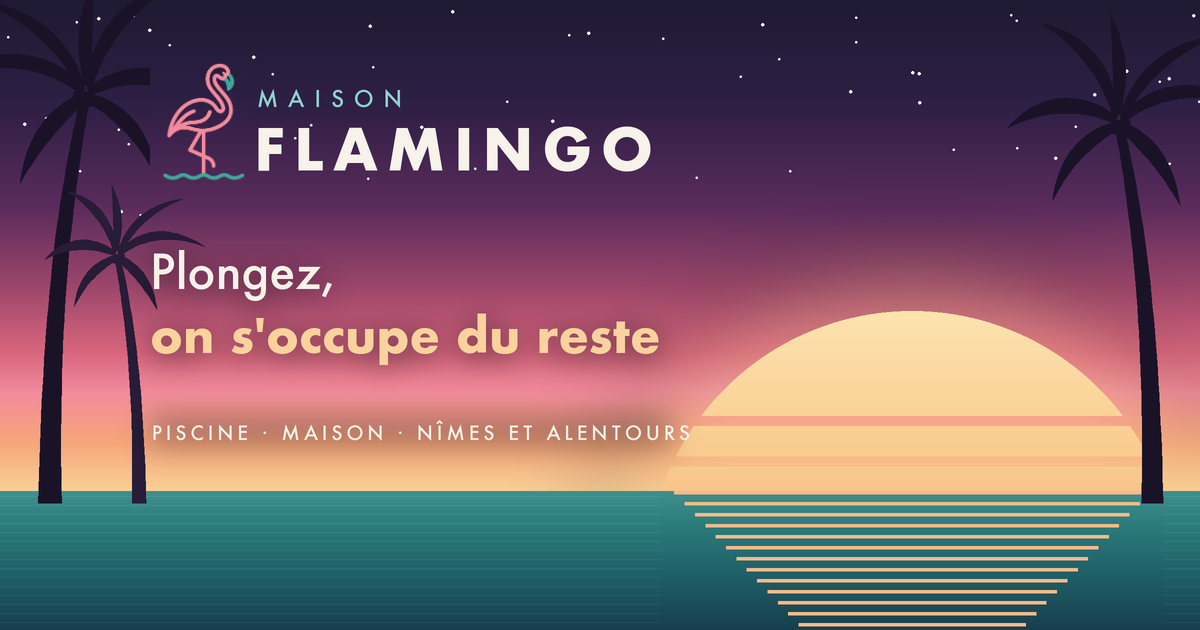
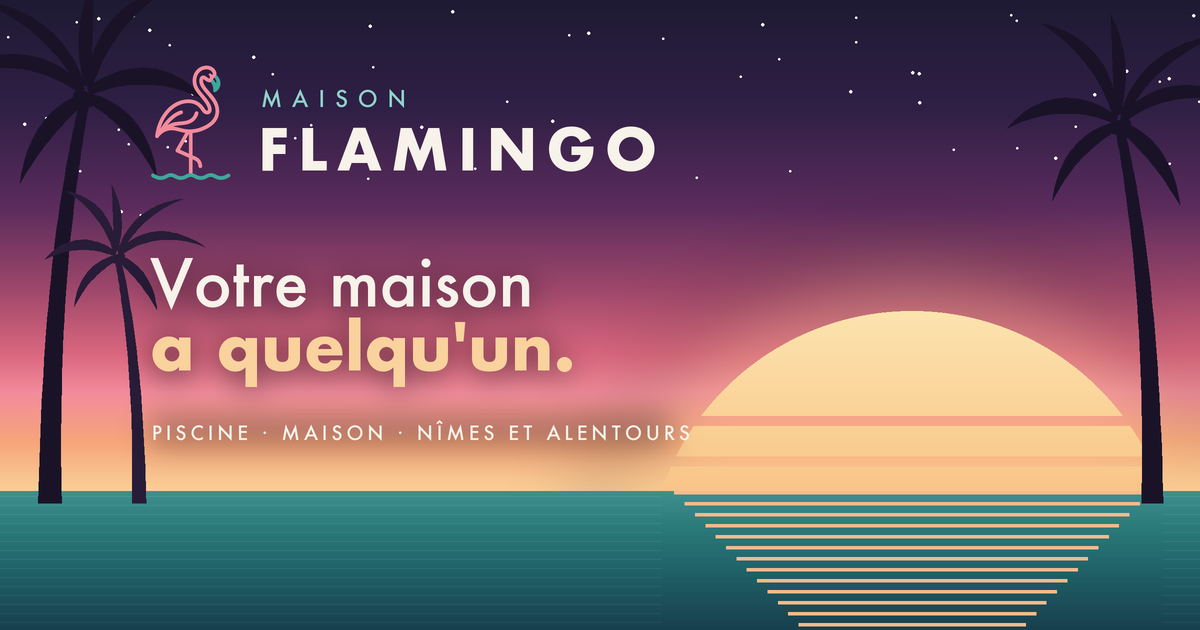
Signature Votre maison a quelqu'un, phrase de campagne Il fait toujours beau chez vous, image de partage refaite

Changed region(s): [[0.1233, 0.3921, 0.555, 0.6333], [0.1233, 0.0905, 0.3392, 0.3016], [0.2158, 0.181, 0.555, 0.2714]]

diff --git a/index.html b/index.html
@@ -3,19 +3,19 @@
 <head>
 <meta charset="utf-8">
 <meta name="viewport" content="width=device-width, initial-scale=1">
-<title>Maison Flamingo · Plongez, on s'occupe du reste</title>
+<title>Maison Flamingo · Votre maison a quelqu'un</title>
 <meta name="description" content="Entretien de piscine chaque semaine et veille de maison fermée, autour de Nîmes. Le même technicien, le même jour, et un rapport photo après chaque passage. Ouverture au printemps 2027.">
 <meta name="theme-color" content="#2A1D3D">
-<meta property="og:title" content="Maison Flamingo · Plongez, on s'occupe du reste">
+<meta property="og:title" content="Maison Flamingo · Votre maison a quelqu'un">
 <meta property="og:description" content="Votre piscine et votre maison, tenues chaque semaine par le même technicien, autour de Nîmes. 25 places fondateurs pour le printemps 2027.">
 <meta property="og:locale" content="fr_FR">
 <meta property="og:type" content="website">
 <meta property="og:url" content="https://maisonflamingo.fr/">
 <meta property="og:site_name" content="Maison Flamingo">
-<meta property="og:image" content="https://maisonflamingo.fr/partage.png?v=6">
+<meta property="og:image" content="https://maisonflamingo.fr/partage.png?v=7">
 <meta property="og:image:width" content="1200">
 <meta property="og:image:height" content="630">
-<meta property="og:image:alt" content="Maison Flamingo, coucher de soleil sur la piscine : Plongez, on s'occupe du reste">
+<meta property="og:image:alt" content="Maison Flamingo, coucher de soleil sur la piscine : Votre maison a quelqu'un">
 <meta name="twitter:card" content="summary_large_image">
 <link rel="canonical" href="https://maisonflamingo.fr/">
 <link rel="icon" href="favicon.png?v=5" type="image/png">
@@ -80,7 +80,7 @@
     <div class="wrap hero-grille">
       <div class="hero-texte">
         <p class="surtitre surtitre-clair">Piscine · Maison · Nîmes et alentours</p>
-        <h1><span class="tenu">Plongez,</span><br><strong class="tenu">on s'occupe <br class="coupe">du reste</strong></h1>
+        <h1><span class="tenu">Il fait <br class="coupe">toujours beau</span><br><strong class="tenu">chez vous.</strong></h1>
         <p class="hero-sous">Votre piscine et votre maison, tenues chaque semaine par le même technicien, le même jour, toute l'année. Après chaque passage, un rapport photo sur votre téléphone.</p>
         <div class="hero-actions">
           <a href="#liste" class="btn btn-creme">Réserver ma place fondateur</a>
@@ -433,7 +433,7 @@
       <a href="mentions-legales.html">Mentions légales</a>
     </div>
   </div>
-  <p class="pied-bas wrap">Manduel, Gard · © <span id="annee">2026</span> Maison Flamingo</p>
+  <p class="pied-bas wrap">Votre maison a quelqu'un. · Manduel, Gard · © <span id="annee">2026</span> Maison Flamingo</p>
 </footer>
 
 <script src="site.js?v=4" defer></script>
